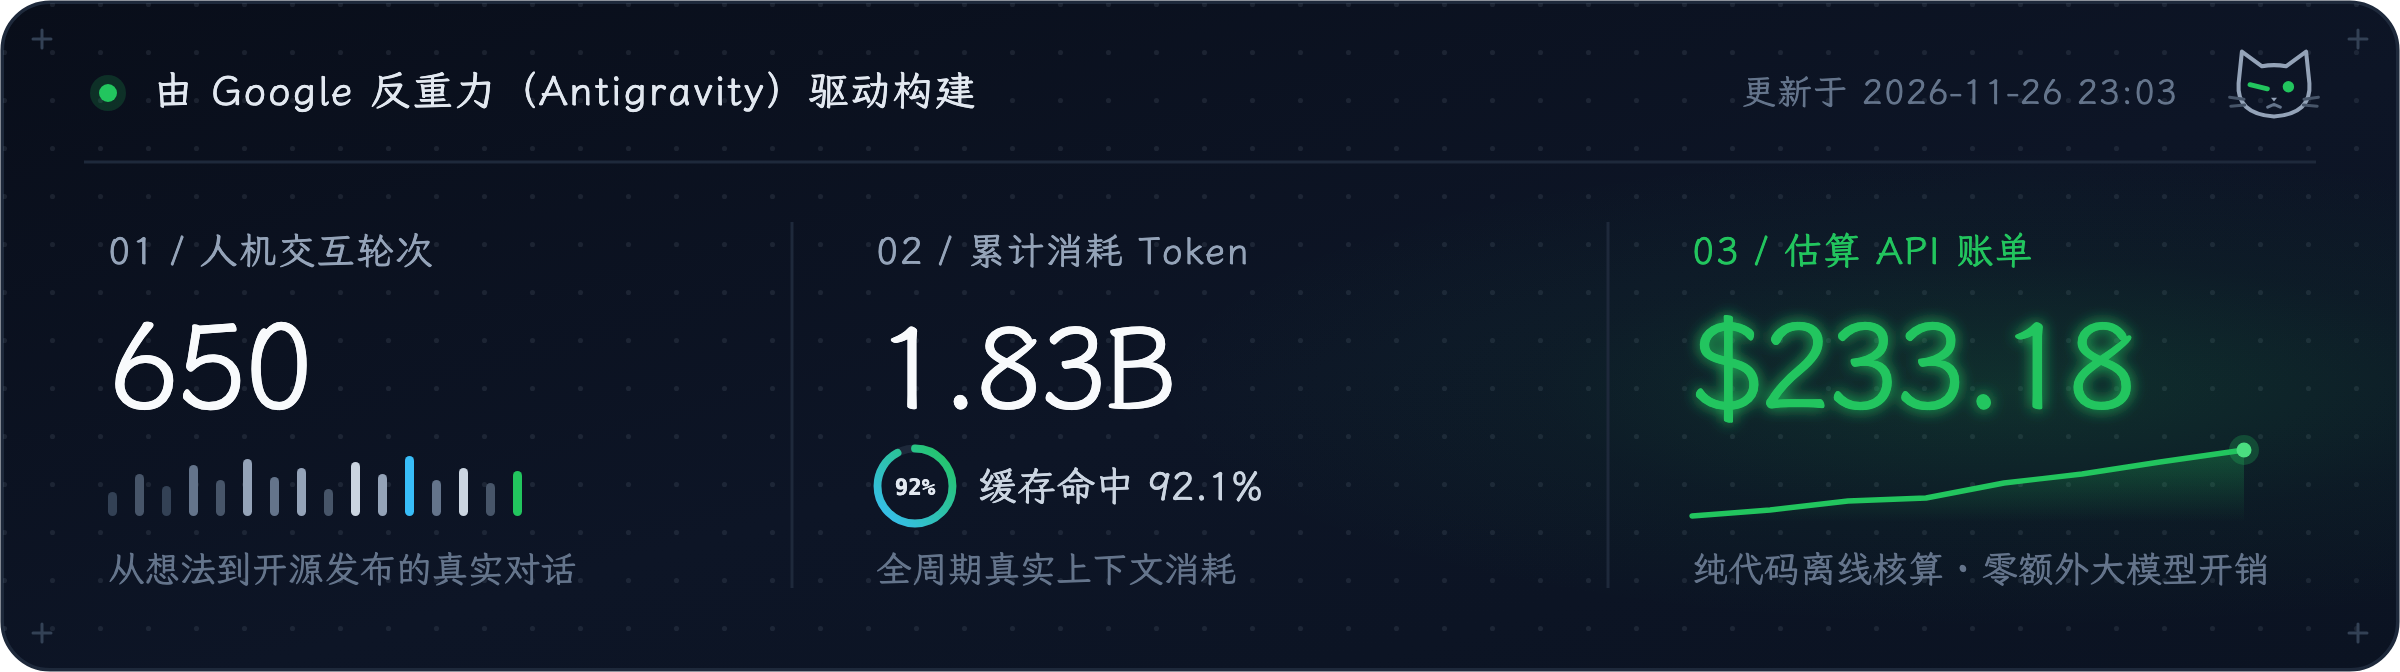
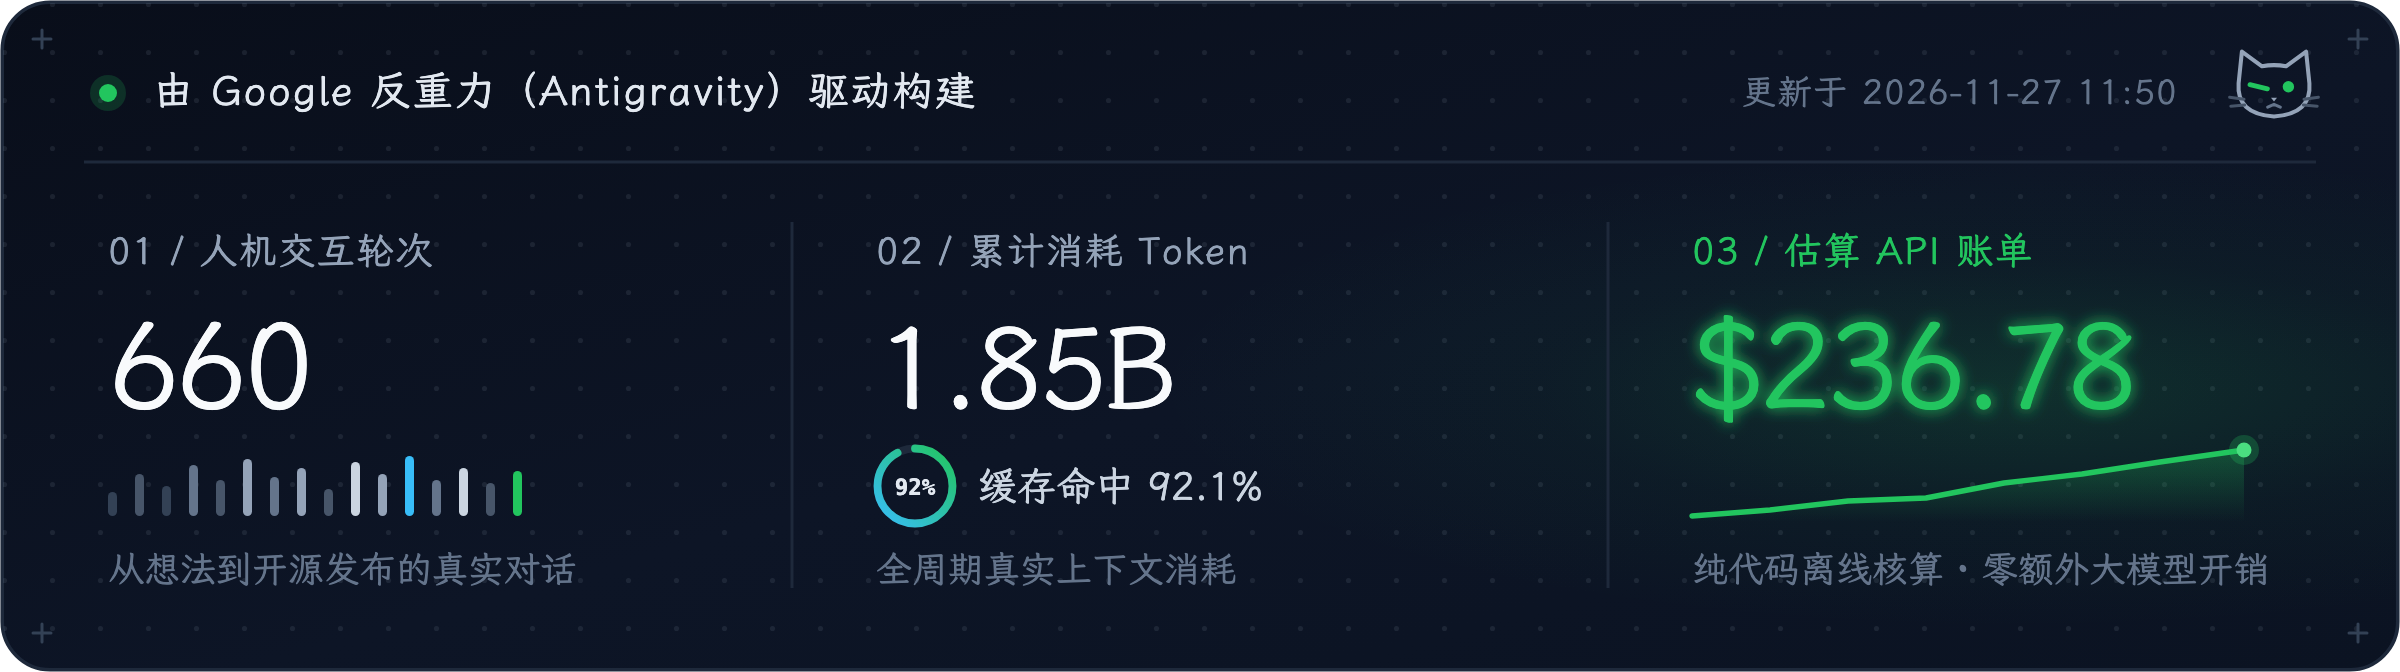
fix(ui): move split drag handle to center gap above sessions

diff --git a/Sources/Views.swift b/Sources/Views.swift
@@ -1117,42 +1117,44 @@ struct MainDashboardView: View {
                     .frame(height: alloc.telemetryHeight > 0 ? alloc.telemetryHeight : nil, alignment: .top)
                     .clipped()
 
-                    Color.clear
-                        .frame(height: alloc.dividerHeight)
-
-                    activeSessionsSection(
-                        allocatedHeight: alloc.sessionsHeight > 0 ? alloc.sessionsHeight : nil,
-                        splitDragCallbacks: SplitDragCallbacks(
-                            onDragBegan: {
-                                dragStartTelemetryHeight = alloc.telemetryHeight
-                            },
-                            onDragChanged: { deltaY in
-                                let base = dragStartTelemetryHeight ?? alloc.telemetryHeight
-                                liveDragTelemetryFraction = DashboardSplitLayoutPolicy.updatedFractionAfterDrag(
-                                    startTelemetryHeight: base,
-                                    dragDeltaY: deltaY,
-                                    totalAvailableHeight: totalH
-                                )
-                            },
-                            onDragEnded: { deltaY in
-                                let base = dragStartTelemetryHeight ?? alloc.telemetryHeight
-                                let committed = DashboardSplitLayoutPolicy.updatedFractionAfterDrag(
-                                    startTelemetryHeight: base,
-                                    dragDeltaY: deltaY,
-                                    totalAvailableHeight: totalH
-                                )
-                                storedSplitFraction = Double(committed)
+                    SplitPaneDividerBar(
+                        showsSeparatorLine: true,
+                        tooltip: L10n.t(.splitResizeTooltip, lang),
+                        onDragBegan: {
+                            dragStartTelemetryHeight = alloc.telemetryHeight
+                        },
+                        onDragChanged: { deltaY in
+                            let base = dragStartTelemetryHeight ?? alloc.telemetryHeight
+                            liveDragTelemetryFraction = DashboardSplitLayoutPolicy.updatedFractionAfterDrag(
+                                startTelemetryHeight: base,
+                                dragDeltaY: deltaY,
+                                totalAvailableHeight: totalH
+                            )
+                        },
+                        onDragEnded: { deltaY in
+                            let base = dragStartTelemetryHeight ?? alloc.telemetryHeight
+                            let committed = DashboardSplitLayoutPolicy.updatedFractionAfterDrag(
+                                startTelemetryHeight: base,
+                                dragDeltaY: deltaY,
+                                totalAvailableHeight: totalH
+                            )
+                            storedSplitFraction = Double(committed)
+                            liveDragTelemetryFraction = nil
+                            dragStartTelemetryHeight = nil
+                        },
+                        onDoubleClick: {
+                            withAnimation(.easeOut(duration: 0.18)) {
+                                storedSplitFraction = -1
                                 liveDragTelemetryFraction = nil
                                 dragStartTelemetryHeight = nil
-                            },
-                            onDoubleClick: {
-                                withAnimation(.easeOut(duration: 0.18)) {
-                                    storedSplitFraction = -1
-                                    liveDragTelemetryFraction = nil
-                                    dragStartTelemetryHeight = nil
-                                }
                             }
-                        )
+                        }
+                    )
+                    .frame(height: alloc.dividerHeight)
+                    .padding(.horizontal, metrics.telemetryCardHorizontalPadding)
+
+                    activeSessionsSection(
+                        allocatedHeight: alloc.sessionsHeight > 0 ? alloc.sessionsHeight : nil
                     )
                 }
                 .frame(width: splitGeo.size.width, height: splitGeo.size.height, alignment: .top)
@@ -1176,7 +1178,7 @@ struct MainDashboardView: View {
                 )
                 .frame(maxHeight: !isTelemetryCollapsed ? .infinity : nil)
 
-                activeSessionsSection(allocatedHeight: nil, splitDragCallbacks: nil)
+                activeSessionsSection(allocatedHeight: nil)
 
                 if isSessionsCollapsed {
                     Spacer(minLength: 0)
@@ -1187,8 +1189,7 @@ struct MainDashboardView: View {
     }
 
     private func activeSessionsSection(
-        allocatedHeight: CGFloat?,
-        splitDragCallbacks: SplitDragCallbacks?
+        allocatedHeight: CGFloat?
     ) -> some View {
         VStack(alignment: .leading, spacing: SessionListLayoutPolicy.headerToListSpacing) {
             HStack(spacing: 6) {
@@ -1286,19 +1287,7 @@ struct MainDashboardView: View {
                     .help(L10n.recent503Tooltip(count503, lang))
                 }
 
-                if let splitDrag = splitDragCallbacks {
-                    SplitPaneDividerBar(
-                        showsSeparatorLine: false,
-                        tooltip: L10n.t(.splitResizeTooltip, lang),
-                        onDragBegan: splitDrag.onDragBegan,
-                        onDragChanged: splitDrag.onDragChanged,
-                        onDragEnded: splitDrag.onDragEnded,
-                        onDoubleClick: splitDrag.onDoubleClick
-                    )
-                    .frame(minWidth: 26, maxWidth: .infinity, maxHeight: .infinity)
-                } else {
-                    Spacer()
-                }
+                Spacer(minLength: 8)
 
                 if !store.payload.sessions.isEmpty {
                     let displayedCount = SessionListFilter.sessionsForDisplay(store.payload.sessions).count
@@ -5767,13 +5756,6 @@ extension AGYAppDelegate {
     }
 }
 
-struct SplitDragCallbacks {
-    let onDragBegan: () -> Void
-    let onDragChanged: (CGFloat) -> Void
-    let onDragEnded: (CGFloat) -> Void
-    let onDoubleClick: () -> Void
-}
-
 struct SplitPaneDividerBar: View {
     var showsSeparatorLine: Bool = true
     let tooltip: String
@@ -5789,13 +5771,20 @@ struct SplitPaneDividerBar: View {
         ZStack {
             if showsSeparatorLine {
                 Rectangle()
-                    .fill(Color(nsColor: .separatorColor).opacity(isHovering || isDragging ? 0.36 : 0.14))
-                    .frame(height: isHovering || isDragging ? 1.0 : 0.5)
+                    .fill(Color(nsColor: .separatorColor).opacity(isDragging ? 0.35 : (isHovering ? 0.22 : 0.0)))
+                    .frame(height: 0.5)
             }
 
             Capsule()
                 .fill(isDragging ? Color.accentColor : (isHovering ? Color.accentColor.opacity(0.75) : Color.primary.opacity(0.22)))
-                .frame(width: (isHovering || isDragging) ? 38 : 28, height: (isHovering || isDragging) ? 4 : 3.5)
+                .frame(
+                    width: (isHovering || isDragging)
+                        ? DashboardSplitLayoutPolicy.dividerPillHoverWidth
+                        : DashboardSplitLayoutPolicy.dividerPillWidth,
+                    height: (isHovering || isDragging)
+                        ? DashboardSplitLayoutPolicy.dividerPillHoverHeight
+                        : DashboardSplitLayoutPolicy.dividerPillHeight
+                )
                 .animation(.easeOut(duration: 0.12), value: isHovering || isDragging)
 
             SplitDividerAppKitView(

diff --git a/tests/AGYHubTests.swift b/tests/AGYHubTests.swift
@@ -5311,8 +5311,9 @@ for line in sys.stdin:
     }
 
     static func testDashboardSplitLayoutDraggableResizeClampingAndPersistence() {
-        expect(DashboardSplitLayoutPolicy.embedsDragHandleInSessionsHeader, "拖拽手柄应内嵌到 SESSIONS 标题栏中，不再额外占用独立的中间横条高度")
-        expect(DashboardSplitLayoutPolicy.dividerHeight <= 6.0, "嵌入标题栏后两区外间距应收紧到 <= 6pt 以节约纵向空间 (actual=\(DashboardSplitLayoutPolicy.dividerHeight))")
+        expect(!DashboardSplitLayoutPolicy.embedsDragHandleInSessionsHeader, "拖拽分隔线应位于实时监控卡片与 SESSIONS 之间的缝隙，不再挤在 SESSIONS 标题栏内部")
+        expect(DashboardSplitLayoutPolicy.dividerHeight >= 8.0 && DashboardSplitLayoutPolicy.dividerHeight <= 12.0, "中间缝隙拖拽区高度应在 8~12pt 之间以居中容纳拖动手柄且不浪费纵向空间 (actual=\(DashboardSplitLayoutPolicy.dividerHeight))")
+        expect(DashboardSplitLayoutPolicy.dividerPillHeight >= 2.5 && DashboardSplitLayoutPolicy.dividerPillHeight <= 3.5, "中间拖拽线粗细应保持纤细紧凑 (actual=\(DashboardSplitLayoutPolicy.dividerPillHeight))")
 
         let totalHeight: CGFloat = 480.0
         let dividerH = DashboardSplitLayoutPolicy.dividerHeight

diff --git a/Sources/Models.swift b/Sources/Models.swift
@@ -3136,9 +3136,13 @@ struct DashboardSplitAllocation: Equatable {
 }
 
 enum DashboardSplitLayoutPolicy {
-    static let embedsDragHandleInSessionsHeader = true
+    static let embedsDragHandleInSessionsHeader = false
     static let splitFractionDefaultsKey = "agyhub.layout.telemetrySplitFraction"
-    static let dividerHeight: CGFloat = 6.0
+    static let dividerHeight: CGFloat = 10.0
+    static let dividerPillWidth: CGFloat = 36.0
+    static let dividerPillHoverWidth: CGFloat = 48.0
+    static let dividerPillHeight: CGFloat = 3.0
+    static let dividerPillHoverHeight: CGFloat = 3.5
     static let minTelemetryHeight: CGFloat = 180.0
     static let minSessionsHeight: CGFloat = 62.0
     static let defaultMinPlotHeight: CGFloat = 118.0
